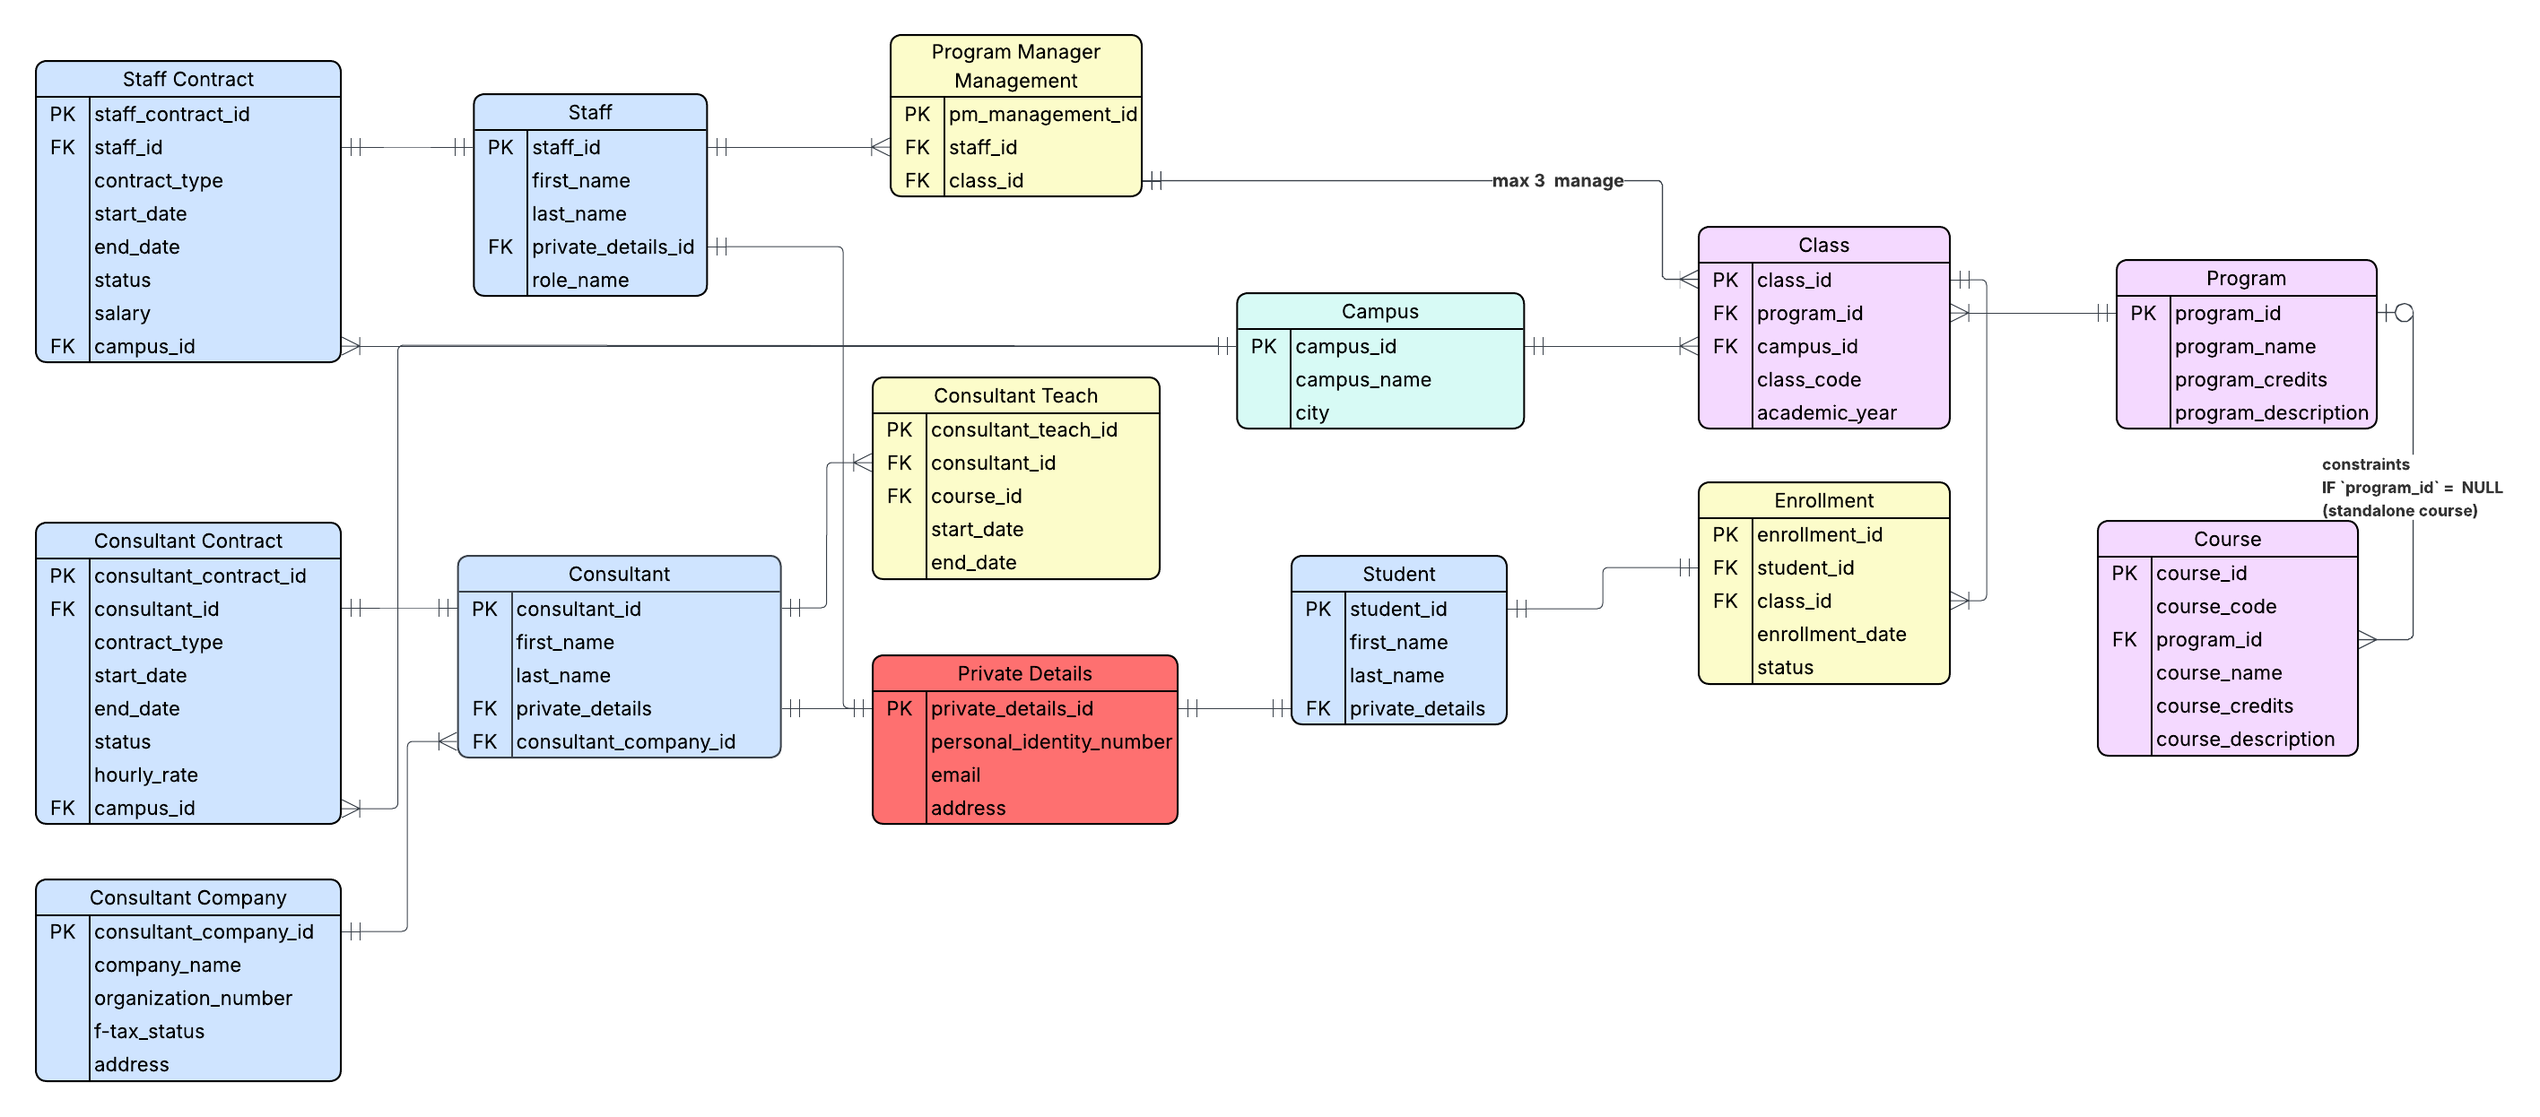
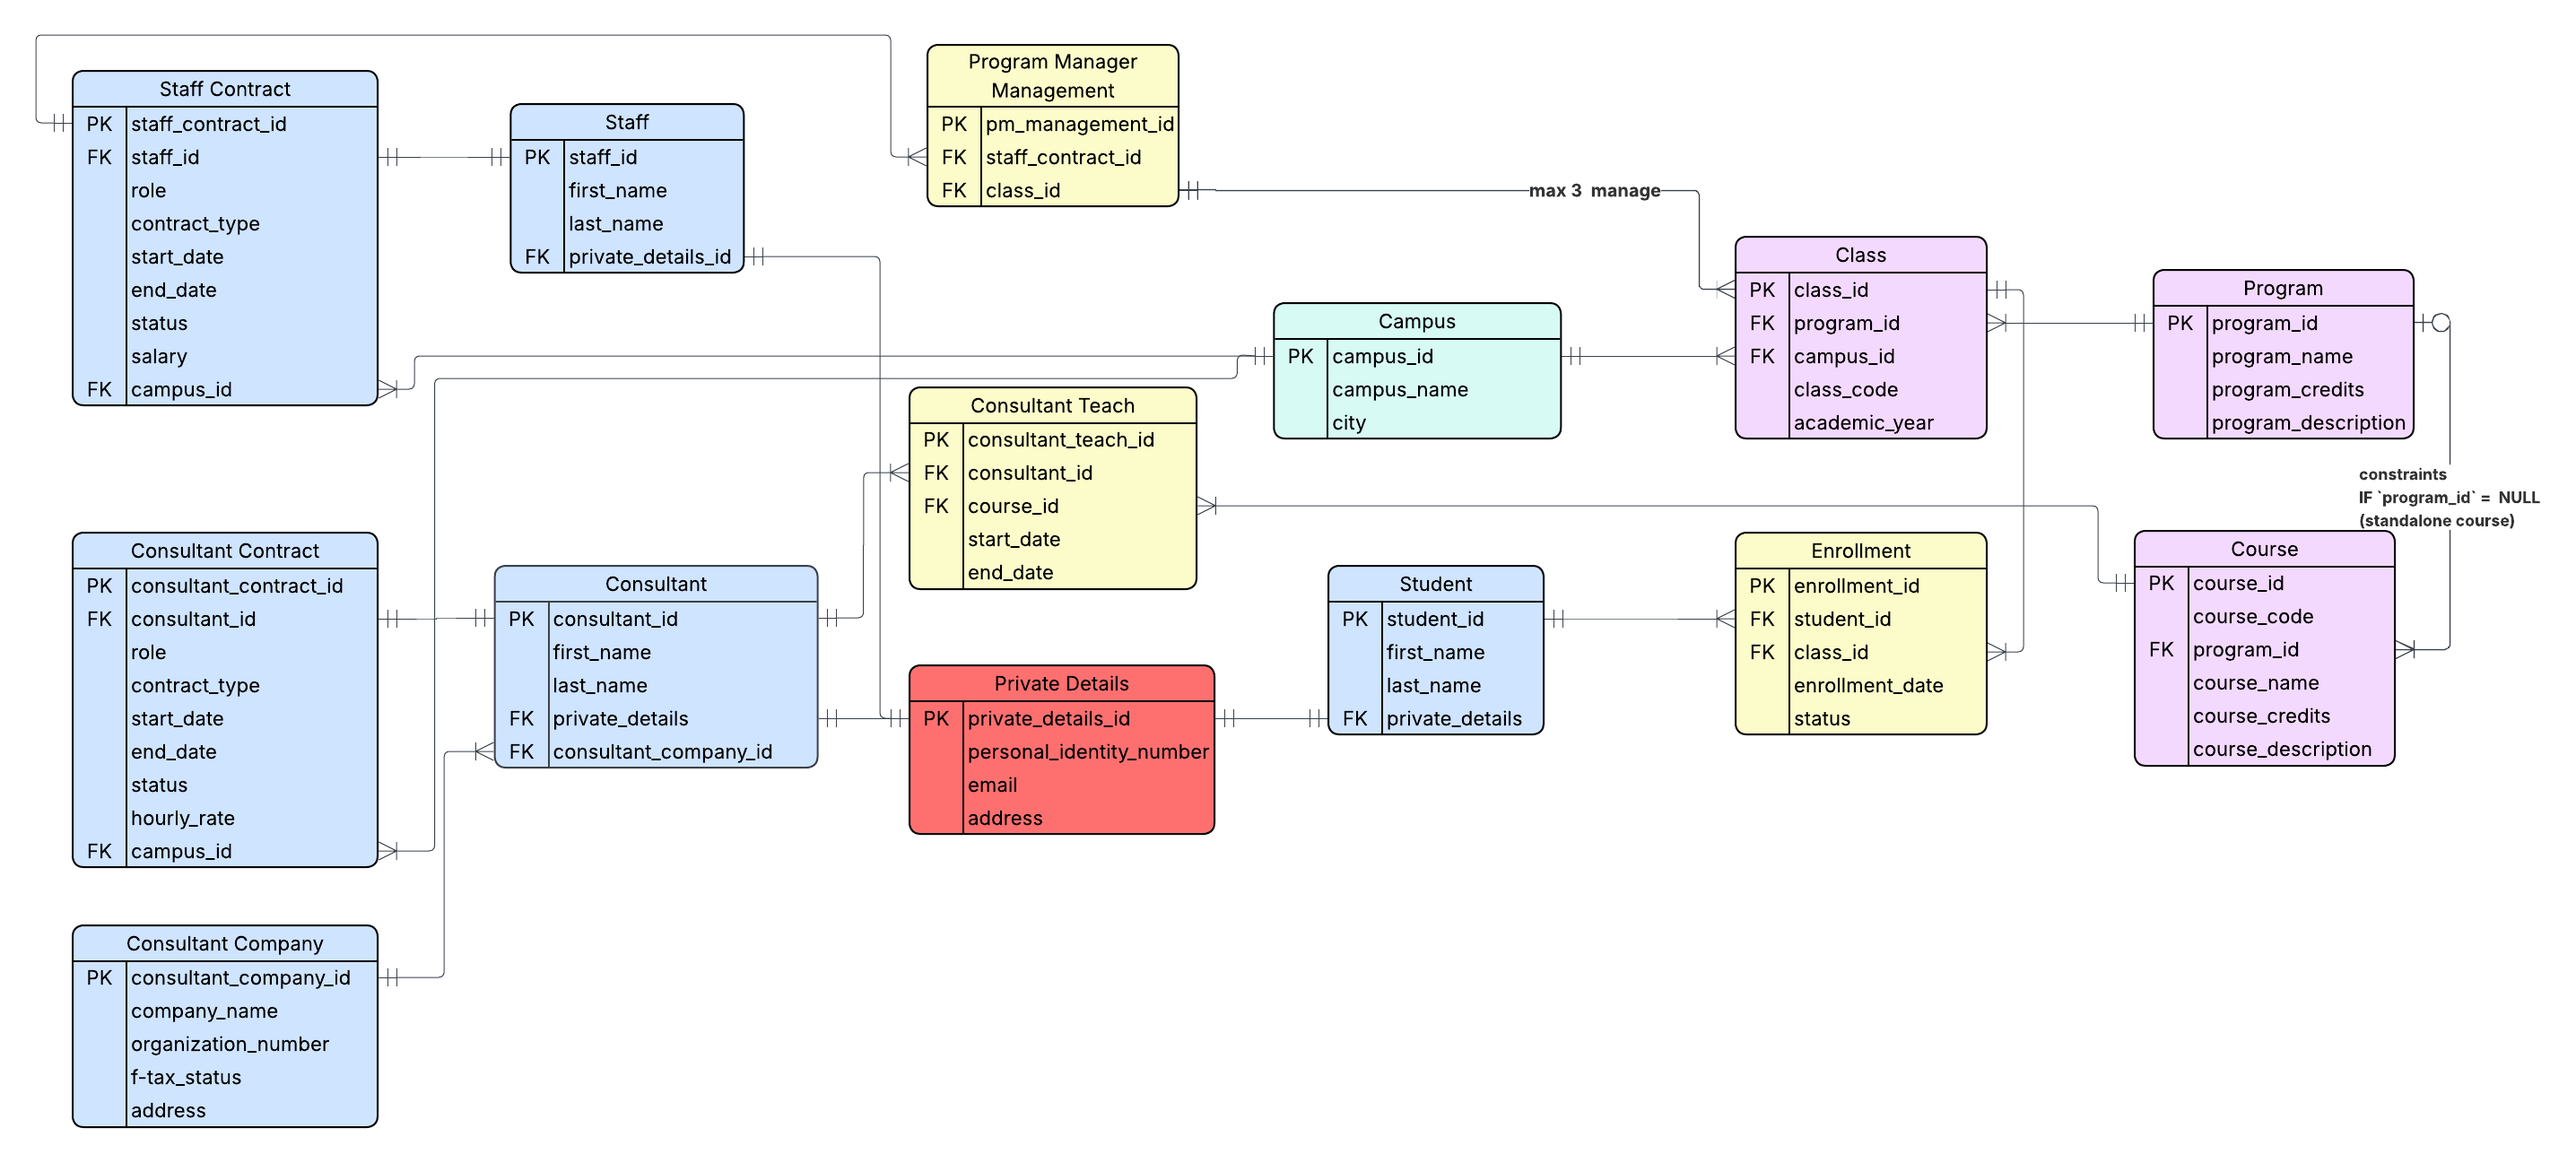
(chore): Fix errors from pervious commit

diff --git a/documentation/conceptual.md b/documentation/conceptual.md
@@ -8,19 +8,21 @@
 
 | Entity                         | Description                                                                                                                                                                                              |
 | ------------------------------ | -------------------------------------------------------------------------------------------------------------------------------------------------------------------------------------------------------- |
-| **Student**                    | A person enrolled at the school. A student belongs to exactly one class. Students do not enroll directly in programs or courses; enrollment is always mediated through a class.       |
-| **Class**                      | An approved, time-bound delivery of an education program (e.g. DE24, DE25). A class represents a specific approval round of a program, is assigned to one campus, and groups students studying together. |
-| **Program**                    | A two-year education offering consisting of multiple predefined courses. A program defines the curriculum and may be approved multiple times over different years, resulting in multiple classes.        |
-| **Course**                     | A unit of education with defined content, credits, and learning objectives. A course may belong to one program or exist independently as a standalone course. Courses are not directly owned by classes. |
-| **Campus**                     | A physical school location where classes are delivered. Each class is associated with exactly one campus.                                                                                                |
-| **Staff**                      | Internal employees of the school, such as program managers or administrative personnel. Each staff member operates under exactly one active staff contract at a time.                                    |
-| **Staff Contract**             | A time-bound employment agreement defining a staff member’s role, campus assignment, compensation, and employment period. Only one staff contract may be active per staff member at any time.            |
-| **Consultant**                 | External professionals engaged by the school to teach or support classes. Consultants operate under consultant contracts and may be associated with a consultant company.                                |
-| **Consultant Contract**        | A time-bound agreement defining a consultant’s assignment, compensation, campus affiliation, and contract period. Only one active contract may exist per consultant at a time.                           |
-| **Consultant Company**         | An external organization that employs or represents one or more consultants providing services to the school.                                                                                            |
-| **Private Details**            | A secured entity containing sensitive personal or company information, such as personal identity numbers and contact details. Access is restricted for privacy and compliance reasons.                   |
-| **Project Manager Management** | An assignment entity representing the responsibility of a staff member acting as program manager for education classes. It enforces managerial constraints between staff and classes.                    |
-| **Consulant Teach** | Represents the actual delivery of teaching: a consultant teaching a specific course to a specific class during a defined period. |
+| 1. **Student**                    | A person enrolled at the school. A student belongs to exactly one class. Students do not enroll directly in programs or courses; enrollment is always mediated through a class.       |
+| 2. **Class**                      | An approved, time-bound delivery of an education program (e.g. DE24, DE25). A class represents a specific approval round of a program, is assigned to one campus, and groups students studying together. |
+| 3. **Program**                    | A two-year education offering consisting of multiple predefined courses. A program defines the curriculum and may be approved multiple times over different years, resulting in multiple classes.        |
+| 4. **Course**                     | A unit of education with defined content, credits, and learning objectives. A course may belong to one program or exist independently as a standalone course. Courses are not directly owned by classes. |
+| 5. **Campus**                     | A physical school location where classes are delivered. Each class is associated with exactly one campus.                                                                                                |
+| 6. **Staff**                      | Internal employees of the school, such as program managers or administrative personnel. Each staff member operates under exactly one active staff contract at a time.                                    |
+| 7. **Staff Contract**             | A time-bound employment agreement defining a staff member’s role, campus assignment, compensation, and employment period. Only one staff contract may be active per staff member at any time.            |
+| 8. **Consultant**                 | External professionals engaged by the school to teach or support classes. Consultants operate under consultant contracts and may be associated with a consultant company.                                |
+| 9. **Consultant Contract**        | A time-bound agreement defining a consultant’s assignment, compensation, campus affiliation, and contract period. Only one active contract may exist per consultant at a time.                           |
+| 10. **Consultant Company**         | An external organization that employs or represents one or more consultants providing services to the school.                                                                                            |
+| 11. **Private Details**            | A secured entity containing sensitive personal or company information, such as personal identity numbers and contact details. Access is restricted for privacy and compliance reasons.                   |
+| 12. **Project Manager Management** | An assignment entity representing the responsibility of a staff member acting as program manager for education classes. It enforces managerial constraints between staff and classes.                    |
+| 13. **Consulant Teach** | Represents the actual delivery of teaching: a consultant teaching a specific course to a specific class during a defined period. |
+| 14. **Enrollment** | Represents a student’s registration in a specific class for a given academic term. Enrollment enforces business rules ensuring that a student is enrolled in either one program class or one standalone course per term, but not both. |
+
 
 
 ## Relationship Descriptions
@@ -40,12 +42,11 @@
 | **Program**                    | **Course**                     | 1 : N         | A program consists of one or more courses that define its curriculum.                                                                    |
 | **Course**                     | **Program**                    | 0 : 1         | A course may belong to one program or exist independently as a standalone course.                                                        |
 | **Student**                    | **Class**                      | N : 1         | Each student belongs to exactly one class per term. A class may contain many students.                                                   |
-| **Consultant**                 | **Class**                      | 0..N : 0..N   | A consultant may teach multiple classes, and a class may be taught by zero or more consultants.                                          |
+| **Consultant**                 | **Course**                      | 0..N : 0..N   | A consultant may teach multiple courses, and a course may be taught by zero or more consultants.                                          |
 | **Staff**                      | **Project Manager Management** | 1 : N         | A staff member may be assigned as program manager for multiple classes through management assignments.                                   |
 | **Project Manager Management** | **Class**                      | 1 : N (max 3) | Each program manager manages up to three classes. Each class is managed by exactly one program manager.                                  |
 | **Consultant**             | **Consultant Teach**             | 1 : N           | A consultant may teach multiple courses through Consultant Teach. |
 | **Course**                 | **Consultant Teach**             | 1 : N           | A course may be taught by multiple consultants through Consultant Teach across different terms. Each Consultant Teach record references exactly one Course. |
-| **Consultant Teach**        | **Consultant **       | 1 : N           | A course may be taught by 1 consultant through Consultant Teach. |
+| **Consultant Teach**        | **Consultant**       | 1 : N           | A course may be taught by 1 consultant through Consultant Teach. |
 | **Student** | **Enrollment** | 1 : N | A student may have multiple enrollments over time, but at most one enrollment per academic term, while each enrollment belongs to exactly one student. |
-| **Enrollment** | Represents a student’s registration in a specific class for a given academic term. Enrollment enforces business rules ensuring that a student is enrolled in either one program class or one standalone course per term, but not both. |
 

diff --git a/documentation/business_requirements.md b/documentation/business_requirements.md
@@ -52,7 +52,7 @@ This document consolidates business domain / entity, and each section clearly de
 ### 2.3 Consultant
 - Business Rules
     - Consultants are external service providers.
-    - Consultants only teach classes.
+    - Consultants only teach courses.
     - A consultant may teach multiple courses through Consultant Teach.
 ### 2.4 Private Details
 - Business Rules
@@ -70,7 +70,7 @@ This document consolidates business domain / entity, and each section clearly de
     - A contract defines contract type, dates, status, hourly_rate, fixed_salary, f_tax_status, campus_id.
     - Only one active contract is allowed per person.
     - Contracts support planned employment.
-    - A role for staffs and consultants cannot change unless the **contract is ended and a new one is created.**
+    - A role for staffs and consultants (only teach) cannot change unless the **contract is ended and a new one is created.**
     - Contracts are private and cannot be publicly accessed.
 
 
@@ -91,7 +91,7 @@ This document consolidates business domain / entity, and each section clearly de
      - `contract_type`
 
 ## 4. Program Manager Management
-    - Each class class must have exactly one program manager.
+    - Each class must have exactly one program manager.
     - A program manager must manage at least three education classes.
     - Maximum of three concurrent classes per program manager.
     - A staff contract with role = `PROGRAM_MANAGER` may be assigned to manage classes.
